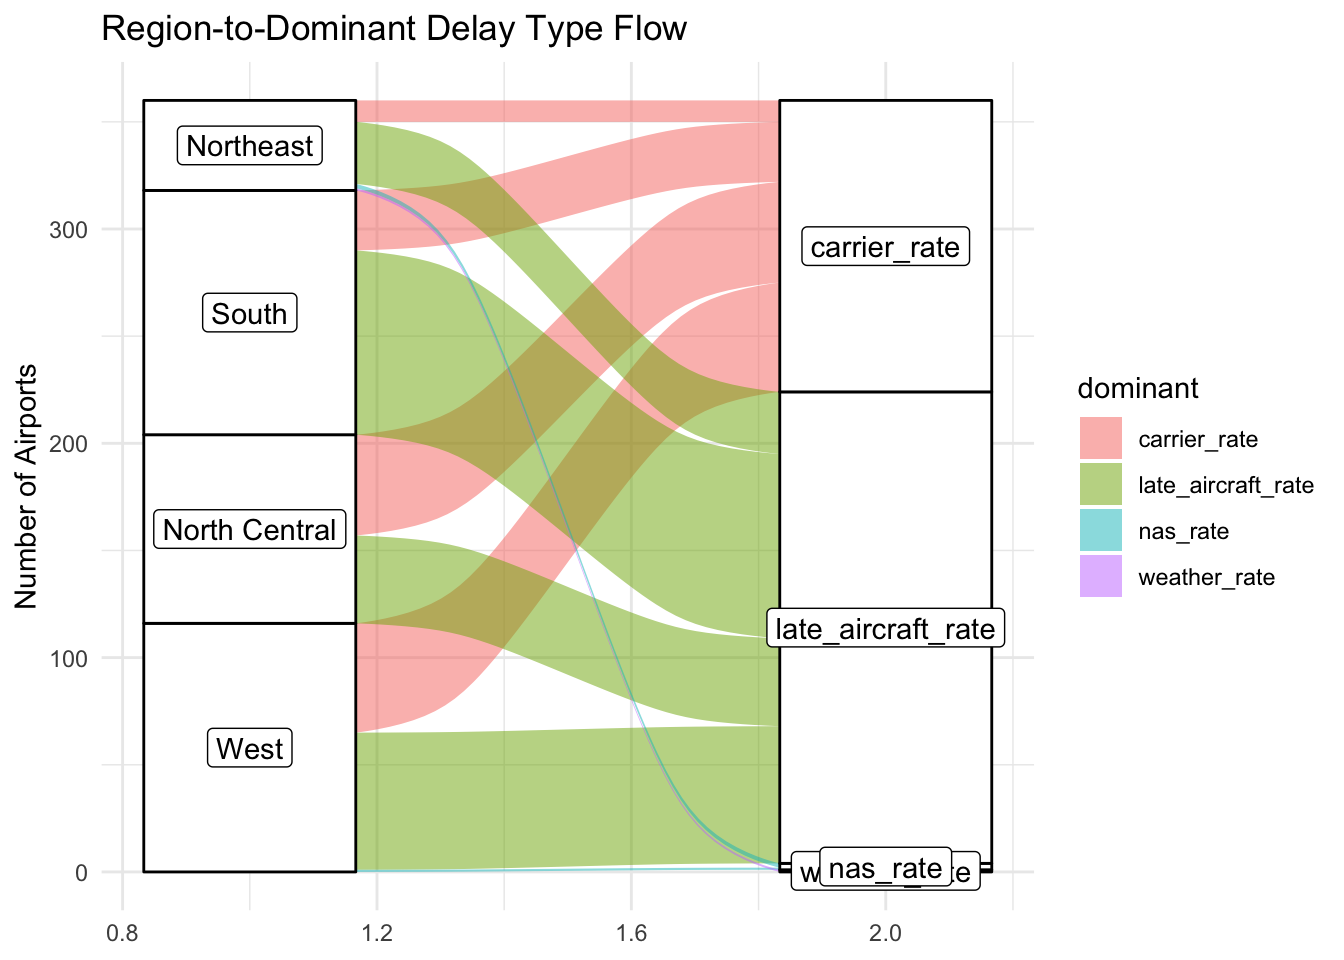
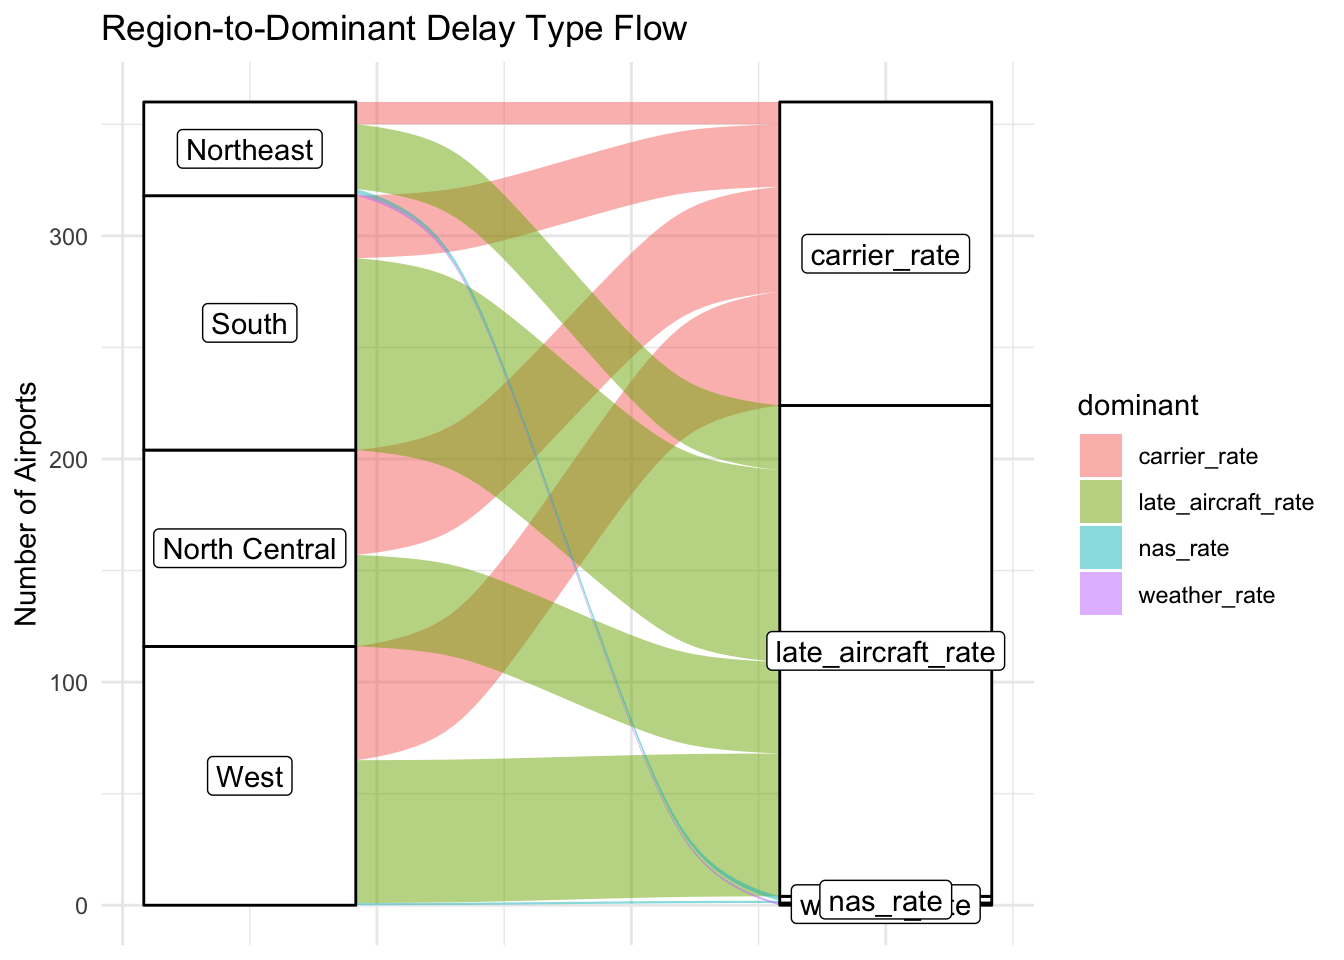
.

diff --git a/docs/results.html b/docs/results.html
@@ -181,13 +181,13 @@ pre > code.sourceCode > span > a:first-child::before { text-decoration: underlin
    
   <ul>
   <li><a href="#how-do-delay-patterns-vary-across-u.s.-airports-and-states-and-how-are-these-patterns-associated-with-geography-dominant-delay-types-and-airport-traffic-volume" id="toc-how-do-delay-patterns-vary-across-u.s.-airports-and-states-and-how-are-these-patterns-associated-with-geography-dominant-delay-types-and-airport-traffic-volume" class="nav-link active" data-scroll-target="#how-do-delay-patterns-vary-across-u.s.-airports-and-states-and-how-are-these-patterns-associated-with-geography-dominant-delay-types-and-airport-traffic-volume"><span class="header-section-number">3.1</span> How do delay patterns vary across U.S. airports and states, and how are these patterns associated with geography, dominant delay types, and airport traffic volume?</a></li>
-  <li><a href="#which-delay-type-is-most-costly-to-the-aviation-system-and-what-are-its-underlying-patterns-and-impacts" id="toc-which-delay-type-is-most-costly-to-the-aviation-system-and-what-are-its-underlying-patterns-and-impacts" class="nav-link" data-scroll-target="#which-delay-type-is-most-costly-to-the-aviation-system-and-what-are-its-underlying-patterns-and-impacts"><span class="header-section-number">3.2</span> Which delay type is most costly to the aviation system, and what are its underlying patterns and impacts?</a></li>
-  <li><a href="#which-delay-types-are-most-prevalentmost-severe" id="toc-which-delay-types-are-most-prevalentmost-severe" class="nav-link" data-scroll-target="#which-delay-types-are-most-prevalentmost-severe"><span class="header-section-number">3.3</span> Which delay types are most prevalent/most severe?</a>
+  <li><a href="#which-delay-type-is-most-costly-to-the-aviation-system-and-what-are-its-underlying-patterns-and-impacts" id="toc-which-delay-type-is-most-costly-to-the-aviation-system-and-what-are-its-underlying-patterns-and-impacts" class="nav-link" data-scroll-target="#which-delay-type-is-most-costly-to-the-aviation-system-and-what-are-its-underlying-patterns-and-impacts"><span class="header-section-number">3.2</span> Which delay type is most costly to the aviation system, and what are its underlying patterns and impacts?</a>
   <ul class="collapse">
-  <li><a href="#how-does-each-delay-rate-vary-over-time" id="toc-how-does-each-delay-rate-vary-over-time" class="nav-link" data-scroll-target="#how-does-each-delay-rate-vary-over-time"><span class="header-section-number">3.3.1</span> How does each delay rate vary over time?</a></li>
-  <li><a href="#is-there-a-relationship-between-hub-type-and-late-aircraft-delay-rates" id="toc-is-there-a-relationship-between-hub-type-and-late-aircraft-delay-rates" class="nav-link" data-scroll-target="#is-there-a-relationship-between-hub-type-and-late-aircraft-delay-rates"><span class="header-section-number">3.3.2</span> Is there a relationship between hub type and late aircraft delay rates?</a></li>
-  <li><a href="#how-do-different-delay-types-cluster-at-airports" id="toc-how-do-different-delay-types-cluster-at-airports" class="nav-link" data-scroll-target="#how-do-different-delay-types-cluster-at-airports"><span class="header-section-number">3.3.3</span> How do different delay types cluster at airports?</a></li>
-  <li><a href="#which-airports-experience-the-highest-late-aircraft-delays" id="toc-which-airports-experience-the-highest-late-aircraft-delays" class="nav-link" data-scroll-target="#which-airports-experience-the-highest-late-aircraft-delays"><span class="header-section-number">3.3.4</span> Which airports experience the highest late aircraft delays?</a></li>
+  <li><a href="#which-delay-types-are-most-prevalentmost-severe" id="toc-which-delay-types-are-most-prevalentmost-severe" class="nav-link" data-scroll-target="#which-delay-types-are-most-prevalentmost-severe"><span class="header-section-number">3.2.1</span> Which delay types are most prevalent/most severe?</a></li>
+  <li><a href="#how-does-each-delay-rate-vary-over-time" id="toc-how-does-each-delay-rate-vary-over-time" class="nav-link" data-scroll-target="#how-does-each-delay-rate-vary-over-time"><span class="header-section-number">3.2.2</span> How does each delay rate vary over time?</a></li>
+  <li><a href="#is-there-a-relationship-between-hub-type-and-late-aircraft-delay-rates" id="toc-is-there-a-relationship-between-hub-type-and-late-aircraft-delay-rates" class="nav-link" data-scroll-target="#is-there-a-relationship-between-hub-type-and-late-aircraft-delay-rates"><span class="header-section-number">3.2.3</span> Is there a relationship between hub type and late aircraft delay rates?</a></li>
+  <li><a href="#how-do-different-delay-types-cluster-at-airports" id="toc-how-do-different-delay-types-cluster-at-airports" class="nav-link" data-scroll-target="#how-do-different-delay-types-cluster-at-airports"><span class="header-section-number">3.2.4</span> How do different delay types cluster at airports?</a></li>
+  <li><a href="#which-airports-experience-the-highest-late-aircraft-delays" id="toc-which-airports-experience-the-highest-late-aircraft-delays" class="nav-link" data-scroll-target="#which-airports-experience-the-highest-late-aircraft-delays"><span class="header-section-number">3.2.5</span> Which airports experience the highest late aircraft delays?</a></li>
   </ul></li>
   </ul>
 <div class="toc-actions"><ul><li><a href="https://github.com/prksyng54/airplane_delays.git/edit/main/results.qmd" class="toc-action"><i class="bi bi-github"></i>Edit this page</a></li><li><a href="https://github.com/prksyng54/airplane_delays.git/issues/new" class="toc-action"><i class="bi empty"></i>Report an issue</a></li></ul></div></nav>
@@ -318,9 +318,7 @@ pre > code.sourceCode > span > a:first-child::before { text-decoration: underlin
 </div>
 </div>
 </div>
-<ul>
-<li>Western states tend to have lower rates cross all delay types, and security delay rate is the smallest, which is shown as distinct cluster around 0.</li>
-</ul>
+<p>Western states tend to have lower rates cross all delay types, and security delay rate is the smallest, which is shown as distinct cluster around 0.</p>
 <div class="cell">
 <details class="code-fold">
 <summary>Code</summary>
@@ -365,9 +363,7 @@ pre > code.sourceCode > span > a:first-child::before { text-decoration: underlin
 </div>
 </div>
 </div>
-<ul>
-<li>Security delays shows almost no correlations with other delay type. Weather and carrier rate, and late aircraft and NAS rate are most correlated.</li>
-</ul>
+<p>Security delays shows almost no correlations with other delay type. Weather and carrier rate, and late aircraft and NAS rate are most correlated.</p>
 <div class="cell">
 <details class="code-fold">
 <summary>Code</summary>
@@ -410,9 +406,7 @@ pre > code.sourceCode > span > a:first-child::before { text-decoration: underlin
 </div>
 </div>
 </div>
-<ul>
-<li>Airport size (determined by total flights number) does not strongly predict overall delay rate. The delay rate varies more in smaller airport (around 1k total flights), often including extreme outliers.</li>
-</ul>
+<p>Airport size (determined by total flights number) does not strongly predict overall delay rate. The delay rate varies more in smaller airport (around 1k total flights), often including extreme outliers.</p>
 <div class="cell">
 <details class="code-fold">
 <summary>Code</summary>
@@ -443,7 +437,9 @@ pre > code.sourceCode > span > a:first-child::before { text-decoration: underlin
 <span id="cb6-25"><a href="#cb6-25" aria-hidden="true" tabindex="-1"></a>  <span class="fu">labs</span>(</span>
 <span id="cb6-26"><a href="#cb6-26" aria-hidden="true" tabindex="-1"></a>    <span class="at">title =</span> <span class="st">"Region-to-Dominant Delay Type Flow"</span>,</span>
 <span id="cb6-27"><a href="#cb6-27" aria-hidden="true" tabindex="-1"></a>    <span class="at">y =</span> <span class="st">"Number of Airports"</span></span>
-<span id="cb6-28"><a href="#cb6-28" aria-hidden="true" tabindex="-1"></a>  )</span></code></pre></div><button title="Copy to Clipboard" class="code-copy-button"><i class="bi"></i></button></div>
+<span id="cb6-28"><a href="#cb6-28" aria-hidden="true" tabindex="-1"></a>  ) <span class="sc">+</span></span>
+<span id="cb6-29"><a href="#cb6-29" aria-hidden="true" tabindex="-1"></a>  <span class="fu">theme</span>(<span class="at">axis.ticks.x =</span> <span class="fu">element_blank</span>(),</span>
+<span id="cb6-30"><a href="#cb6-30" aria-hidden="true" tabindex="-1"></a>          <span class="at">axis.text.x =</span> <span class="fu">element_blank</span>())</span></code></pre></div><button title="Copy to Clipboard" class="code-copy-button"><i class="bi"></i></button></div>
 </details>
 <div class="cell-output-display">
 <div>
@@ -453,9 +449,7 @@ pre > code.sourceCode > span > a:first-child::before { text-decoration: underlin
 </div>
 </div>
 </div>
-<ul>
-<li>Late aircraft delays are more dominant type for most airports nationwide. Carrier delays dominate many airports in the South and West.</li>
-</ul>
+<p>Late aircraft delays are more dominant type for most airports nationwide. Carrier delays dominate many airports in the South and West.</p>
 <div class="cell">
 <details class="code-fold">
 <summary>Code</summary>
@@ -669,9 +663,8 @@ $`Late Aircraft`</code></pre>
 <span id="cb14-44"><a href="#cb14-44" aria-hidden="true" tabindex="-1"></a>  )</span></code></pre></div><button title="Copy to Clipboard" class="code-copy-button"><i class="bi"></i></button></div>
 </details>
 </div>
-</section>
-<section id="which-delay-types-are-most-prevalentmost-severe" class="level2" data-number="3.3">
-<h2 data-number="3.3" class="anchored" data-anchor-id="which-delay-types-are-most-prevalentmost-severe"><span class="header-section-number">3.3</span> Which delay types are most prevalent/most severe?</h2>
+<section id="which-delay-types-are-most-prevalentmost-severe" class="level3" data-number="3.2.1">
+<h3 data-number="3.2.1" class="anchored" data-anchor-id="which-delay-types-are-most-prevalentmost-severe"><span class="header-section-number">3.2.1</span> Which delay types are most prevalent/most severe?</h3>
 <div class="cell">
 <details class="code-fold">
 <summary>Code</summary>
@@ -734,8 +727,9 @@ $`Late Aircraft`</code></pre>
 <p>Weather delays are the most severe (an almost 2 hour average), yet the rarest (.9 per 100 flights), contributing to only ~ 6% of total system delay minutes. Weather delays, while severe, are not the main operation concern and often come from unavoidable external factors rather than inefficiency in the system.</p>
 <p>Security delays are almost completely negligible representing less than .2% of total delay minutes.</p>
 <p>Delay counts contains decimal values, likely representing when delays have multiple contributing causes.</p>
-<section id="how-does-each-delay-rate-vary-over-time" class="level3" data-number="3.3.1">
-<h3 data-number="3.3.1" class="anchored" data-anchor-id="how-does-each-delay-rate-vary-over-time"><span class="header-section-number">3.3.1</span> How does each delay rate vary over time?</h3>
+</section>
+<section id="how-does-each-delay-rate-vary-over-time" class="level3" data-number="3.2.2">
+<h3 data-number="3.2.2" class="anchored" data-anchor-id="how-does-each-delay-rate-vary-over-time"><span class="header-section-number">3.2.2</span> How does each delay rate vary over time?</h3>
 <div class="cell">
 <details class="code-fold">
 <summary>Code</summary>
@@ -804,8 +798,8 @@ $`Late Aircraft`</code></pre>
 <p>According to the TSA, four of 2024’s top ten travel days occurred in July, and June 22, 2025 marked the second highest single-day volume ever with 3.097 million passengers. Those dates align with peaks in the delay spikes, suggesting that increased demand during high-volume periods drives higher NAS, carrier, and Late Aircraft delay rates. The December peak most likely represents with increased holiday travel.</p>
 <p>Surprisingly, weather delays remain consistently low throughout the year, even with varying weather patterns per season. Security delays remain negligible.</p>
 </section>
-<section id="is-there-a-relationship-between-hub-type-and-late-aircraft-delay-rates" class="level3" data-number="3.3.2">
-<h3 data-number="3.3.2" class="anchored" data-anchor-id="is-there-a-relationship-between-hub-type-and-late-aircraft-delay-rates"><span class="header-section-number">3.3.2</span> Is there a relationship between hub type and late aircraft delay rates?</h3>
+<section id="is-there-a-relationship-between-hub-type-and-late-aircraft-delay-rates" class="level3" data-number="3.2.3">
+<h3 data-number="3.2.3" class="anchored" data-anchor-id="is-there-a-relationship-between-hub-type-and-late-aircraft-delay-rates"><span class="header-section-number">3.2.3</span> Is there a relationship between hub type and late aircraft delay rates?</h3>
 <div class="cell">
 <details class="code-fold">
 <summary>Code</summary>
@@ -876,8 +870,8 @@ $`Late Aircraft`</code></pre>
 </div>
 <p>Delay rates show minimal systemic variation by hub classifications, suggesting that these delays are a system-wide issue rather than hub specific. The only exception is NAS delays, which are slightly elevated at large hubs, mostly likely due to airspace congestion.</p>
 </section>
-<section id="how-do-different-delay-types-cluster-at-airports" class="level3" data-number="3.3.3">
-<h3 data-number="3.3.3" class="anchored" data-anchor-id="how-do-different-delay-types-cluster-at-airports"><span class="header-section-number">3.3.3</span> How do different delay types cluster at airports?</h3>
+<section id="how-do-different-delay-types-cluster-at-airports" class="level3" data-number="3.2.4">
+<h3 data-number="3.2.4" class="anchored" data-anchor-id="how-do-different-delay-types-cluster-at-airports"><span class="header-section-number">3.2.4</span> How do different delay types cluster at airports?</h3>
 <div class="cell">
 <details class="code-fold">
 <summary>Code</summary>
@@ -959,8 +953,8 @@ $`Late Aircraft`</code></pre>
 <p>The PCA reveals two distinct delay profiles. NAS, late aircraft, and security delays are strongly correlated and tend to occur together. NAS, late aircraft, and security delays relate towa systemic congestion and bottlenecks where higher flight volume can lend itself to flight delays and higher passenger volume to security delays. This makes sense as the larger hub airports are concentrated on the negative PC1 side. Non-hub airports are more dispersed throughout the plot.</p>
 <p>Weather and carrier delays also tend to occur together, possibly representing airports where external conditions and airline-specific issues are the bigger problems. The similar arrow magnitudes across delay types indicate that multiple factors contribute to differentiating delay patterns, though carrier and weather delays align most strongly with PC1.</p>
 </section>
-<section id="which-airports-experience-the-highest-late-aircraft-delays" class="level3" data-number="3.3.4">
-<h3 data-number="3.3.4" class="anchored" data-anchor-id="which-airports-experience-the-highest-late-aircraft-delays"><span class="header-section-number">3.3.4</span> Which airports experience the highest late aircraft delays?</h3>
+<section id="which-airports-experience-the-highest-late-aircraft-delays" class="level3" data-number="3.2.5">
+<h3 data-number="3.2.5" class="anchored" data-anchor-id="which-airports-experience-the-highest-late-aircraft-delays"><span class="header-section-number">3.2.5</span> Which airports experience the highest late aircraft delays?</h3>
 <p>Because late aircraft delays are the highest concern and not neccesarily a problem separated by hub type, we created a dot plot of the top 50 airports with the highest late aircraft delay rates. Security delays are not included because they are so few.</p>
 <div class="cell">
 <details class="code-fold">
